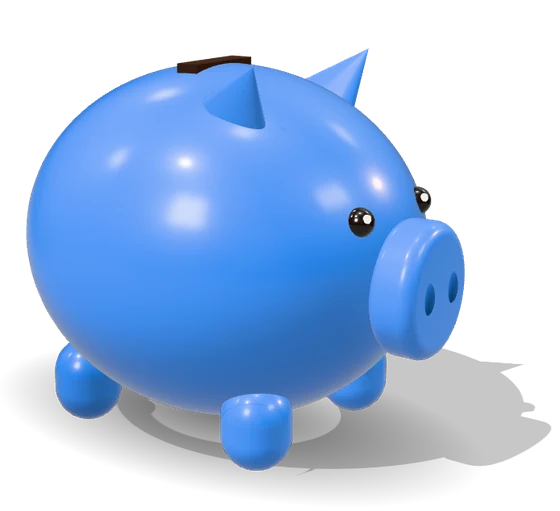
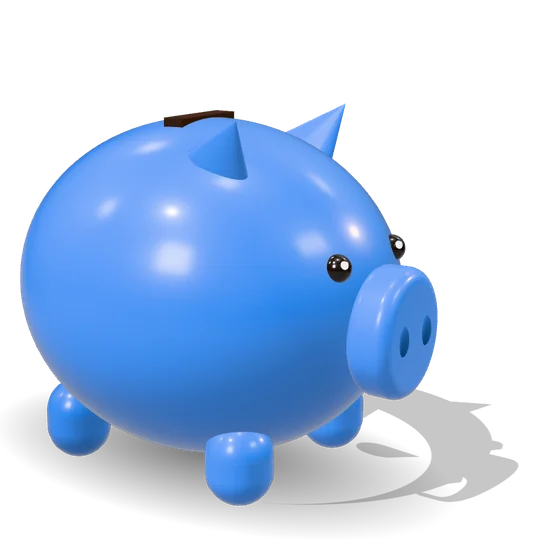
26 skins de porquinho (cores, estampas e acessórios) e troca rápida entre metas
Claude-Session: https://claude.ai/code/session_018k4gdWZnWhzufUH8PF7AZc

Changed region(s): [[0.0304, 0.0881, 1.0, 0.9393]]

diff --git a/js/goals.js b/js/goals.js
@@ -4,11 +4,17 @@
 'use strict';
 /* porquinhos em 3D (renderizados com luz de estúdio; um arquivo por cor em assets/pigs) */
 const PIGS = {
-  laranja: { n: 'Laranja' }, rosa: { n: 'Rosa' }, dourado: { n: 'Dourado' }, prata: { n: 'Prata' }, azul: { n: 'Azul' },
-  menta: { n: 'Menta' }, lilas: { n: 'Lilás' }, vermelho: { n: 'Vermelho' }, grafite: { n: 'Grafite' }, perola: { n: 'Pérola' },
+  laranja: { n: 'Laranja', g: 'c' }, rosa: { n: 'Rosa', g: 'c' }, azul: { n: 'Azul', g: 'c' }, menta: { n: 'Menta', g: 'c' }, lilas: { n: 'Lilás', g: 'c' },
+  vermelho: { n: 'Vermelho', g: 'c' }, grafite: { n: 'Grafite', g: 'c' }, perola: { n: 'Pérola', g: 'c' }, dourado: { n: 'Dourado', g: 'c' }, prata: { n: 'Prata', g: 'c' },
+  bolinhas: { n: 'Bolinhas', g: 'e' }, marinheiro: { n: 'Marinheiro', g: 'e' }, galaxia: { n: 'Galáxia', g: 'e' }, melancia: { n: 'Melancia', g: 'e' },
+  vaca: { n: 'Vaquinha', g: 'e' }, marmore: { n: 'Mármore', g: 'e' }, onca: { n: 'Oncinha', g: 'e' }, arcoiris: { n: 'Arco-íris', g: 'e' },
+  rei: { n: 'Rei', g: 'a' }, laco: { n: 'Lacinho', g: 'a' }, oculos: { n: 'Descolado', g: 'a' }, festa: { n: 'Festa', g: 'a' },
+  natal: { n: 'Natal', g: 'a' }, dj: { n: 'DJ', g: 'a' }, chique: { n: 'Chique', g: 'a' }, vidro: { n: 'Vidro com moedas', g: 'a' },
 };
+const PIG_GROUPS = [['c', 'Cores'], ['e', 'Estampas'], ['a', 'Acessórios e especiais']];
+const GOAL_IDEAS = [['✈', 'Viagem'], ['🛟', 'Reserva de emergência'], ['🚗', 'Carro'], ['🏠', 'Casa própria'], ['🎓', 'Estudos'], ['💻', 'Notebook novo'], ['🎁', 'Presentes de Natal'], ['💍', 'Casamento'], ['📱', 'Celular novo'], ['🏖', 'Férias']];
 const PIG_OLD = { ouro: 'dourado', porcelana: 'perola', noite: 'grafite', melancia: 'vermelho', vaca: 'perola', robo: 'prata', vidro: 'azul', cafe: 'laranja' };
-const PIG_SLOT = [38.4, 12.5], PIG_AR = 511 / 560;
+const PIG_SLOT = [35.7, 21.9], PIG_AR = 539 / 560;
 const pigKey = k => PIGS[k] ? k : PIG_OLD[k] || 'laranja';
 const brl = c => ((c || 0) / 100).toLocaleString('pt-BR', { style: 'currency', currency: 'BRL' });
 const brlS = c => (c < 0 ? '−' : '+') + brl(Math.abs(c));
@@ -51,8 +57,9 @@ VIEWS.goals = main => {
     </div>` : ''}
     <div class="ggrid">${gs.map(goalCard).join('')}${gs.length ? `<button class="gcard gadd" data-act="gnew">${ic('plus', 28)}<span>Nova meta</span></button>` : ''}</div>
     ${!gs.length ? `<div class="empty gempty">${pigSvg('laranja', .35, 190, { cls: 'bob' })}<p><b>Crie seu primeiro porquinho</b></p><p class="mut">Defina uma meta (uma viagem, uma reserva, um presente) e registre cada valor que você guardar de verdade. O app acompanha o total, os meses e quanto falta.</p><button class="btn red" data-act="gnew">${ic('plus', 16)}Nova meta</button></div>` : ''}
+    ${gs.length ? `<p class="hint gtip">Você pode ter quantos porquinhos quiser, um para cada objetivo. Toque em <b>Nova meta</b> para criar outro.</p>` : ''}
     ${arch.length ? `<details class="harch"><summary>Arquivadas e concluídas (${arch.length})</summary><div class="ggrid sm">${arch.map(goalCard).join('')}</div></details>` : ''}
-  </div></div>`;
+  </div></div><button class="fab" data-act="gnew" aria-label="Nova meta">${ic('plus', 26)}</button>`;
 };
 function goalCard(g) {
   const s = gSaved(g), p = gPct(g), last = (g.dep || []).reduce((a, x) => !a || x.d > a.d ? x : a, null);
@@ -83,6 +90,7 @@ function goalDetail(main, g) {
   const byM = []; rows.forEach(x => { const k = ymOf(x.d); let m = byM[byM.length - 1]; if (!m || m.k !== k) byM.push(m = { k, items: [], sum: 0 }); m.items.push(x); m.sum += x.v; });
   const real = g.real && g.real.v != null ? g.real : null, diff = real ? real.v - st.s : 0;
   main.innerHTML = headHtml(g.name, '', `<button class="ib" data-act="gskin" data-id="${g.id}" aria-label="Trocar porquinho" title="Trocar porquinho">${ic('star', 19)}</button><button class="ib" data-act="gedit" data-id="${g.id}" aria-label="Editar meta" title="Editar meta">${ic('edit', 19)}</button>`, { pre: `<nav class="crumbs gcrumb"><a href="#/goals">Metas</a><span>/</span></nav>` }) + `<div class="scroll"><div class="goals gdet">
+    <nav class="gtabs">${goalsAll().filter(x => !x.arch).sort((a, b) => (a.o || a.c || 0) - (b.o || b.c || 0)).map(x => `<a class="gtab${x.id === g.id ? ' on' : ''}" href="#/goals/${x.id}"><img src="assets/pigs/${pigKey(x.skin)}.webp" alt="" width="34" height="${Math.round(34 * PIG_AR)}"><span>${esc(x.name)}</span></a>`).join('')}<button class="gtab add" data-act="gnew">${ic('plus', 16)}<span>Nova meta</span></button></nav>
     <section class="ghero">
       <button class="gbig" data-act="gtap" aria-label="Porquinho">${pigSvg(g.skin, p, 230, { cls: 'bob' })}</button>
       <div class="ghinfo">
@@ -165,12 +173,13 @@ function goalConfetti(box) {
 
 /* ---------- formulários ---------- */
 function skinGrid(cur, pct = .45) {
-  return `<div class="gskins">${Object.entries(PIGS).map(([k, P]) => `<label class="gskin"><input type="radio" name="skin" value="${k}" ${k === pigKey(cur) ? 'checked' : ''}><span>${pigSvg(k, pct, 92)}<i>${esc(P.n)}</i></span></label>`).join('')}</div>`;
+  return PIG_GROUPS.map(([gk, gn]) => `<span class="gskh">${gn}</span><div class="gskins">${Object.entries(PIGS).filter(([, P]) => P.g === gk).map(([k, P]) => `<label class="gskin"><input type="radio" name="skin" value="${k}" ${k === pigKey(cur) ? 'checked' : ''}><span>${pigSvg(k, pct >= 1 ? .9 : pct, 92)}<i>${esc(P.n)}</i></span></label>`).join('')}</div>`).join('');
 }
 function editGoal(g) {
   const isNew = !g;
   g = g || { id: uid(), name: '', target: 0, due: '', skin: Object.keys(PIGS)[goalsAll().length % 10], dep: [], c: Date.now() };
   const el = modal(`<h2>${isNew ? 'Nova meta' : 'Editar meta'}</h2><form class="gform">
+    ${isNew ? `<div class="gideas">${GOAL_IDEAS.map(([e, n]) => `<button type="button" class="fchip" data-idea="${esc(n)}">${e} ${esc(n)}</button>`).join('')}</div>` : ''}
     <label class="lab">Nome da meta<input class="in" name="n" value="${esc(g.name)}" placeholder="Ex.: Viagem de férias, Reserva de emergência" maxlength="60" required autofocus></label>
     <div class="row"><label class="lab f1">Valor da meta (R$)<input class="in" name="t" inputmode="decimal" data-nocalc value="${g.target ? (g.target / 100).toLocaleString('pt-BR', { minimumFractionDigits: 2 }) : ''}" placeholder="Ex.: 5.000,00"></label>
     <label class="lab f1">Prazo (opcional)<input class="in" type="date" name="d" value="${esc(g.due || '')}"></label></div>
@@ -180,6 +189,7 @@ function editGoal(g) {
   </form>`, { cls: 'wide' });
   const f = el.querySelector('form');
   el.querySelector('[data-x]').onclick = () => closeModal();
+  el.querySelectorAll('[data-idea]').forEach(b => b.onclick = () => { f.n.value = b.dataset.idea; el.querySelectorAll('[data-idea]').forEach(x => x.classList.toggle('on', x === b)); f.t.focus(); });
   f.onsubmit = e => {
     e.preventDefault();
     const t = parseBRL(f.t.value);

diff --git a/sw.js b/sw.js
@@ -1,7 +1,7 @@
 /* Service worker: abre sem internet, busca sempre a versão mais nova e mostra as notificações push. */
-const VERSAO = '2026.10.30-106';
+const VERSAO = '2026.10.30-107';
 const CACHE = 'tarefas-' + VERSAO;
-const ARQUIVOS = ['./', 'index.html', 'config.js', 'css/app.css', 'assets/fonts/inter-latin-wght-normal.woff2', 'assets/fonts/inter-latin-ext-wght-normal.woff2', 'js/core.js', 'js/emoji.js', 'js/ui.js', 'js/files.js', 'js/fileprev.js', 'js/links.js', 'js/tasks.js', 'js/home.js', 'js/detail.js', 'js/cal.js', 'js/ics.js', 'js/docs.js', 'js/focus.js', 'js/sounds.js', 'js/export.js', 'js/docshot.js', 'js/log.js', 'js/ach.js', 'js/pets.js', 'js/focusfx.js', 'js/room.js', 'js/radio.js', 'js/goals.js', 'assets/pigs/laranja.webp', 'assets/pigs/rosa.webp', 'assets/pigs/dourado.webp', 'assets/pigs/prata.webp', 'assets/pigs/azul.webp', 'assets/pigs/menta.webp', 'assets/pigs/lilas.webp', 'assets/pigs/vermelho.webp', 'assets/pigs/grafite.webp', 'assets/pigs/perola.webp', 'js/calc.js', 'js/notes.js', 'js/draw.js', 'js/ai.js', 'js/dstyles.js', 'js/meet.js', 'js/users.js', 'js/push.js', 'js/sync.js', 'js/app.js',
+const ARQUIVOS = ['./', 'index.html', 'config.js', 'css/app.css', 'assets/fonts/inter-latin-wght-normal.woff2', 'assets/fonts/inter-latin-ext-wght-normal.woff2', 'js/core.js', 'js/emoji.js', 'js/ui.js', 'js/files.js', 'js/fileprev.js', 'js/links.js', 'js/tasks.js', 'js/home.js', 'js/detail.js', 'js/cal.js', 'js/ics.js', 'js/docs.js', 'js/focus.js', 'js/sounds.js', 'js/export.js', 'js/docshot.js', 'js/log.js', 'js/ach.js', 'js/pets.js', 'js/focusfx.js', 'js/room.js', 'js/radio.js', 'js/goals.js', 'assets/pigs/laranja.webp', 'assets/pigs/rosa.webp', 'assets/pigs/dourado.webp', 'assets/pigs/prata.webp', 'assets/pigs/azul.webp', 'assets/pigs/menta.webp', 'assets/pigs/lilas.webp', 'assets/pigs/vermelho.webp', 'assets/pigs/grafite.webp', 'assets/pigs/perola.webp', 'assets/pigs/bolinhas.webp', 'assets/pigs/marinheiro.webp', 'assets/pigs/galaxia.webp', 'assets/pigs/melancia.webp', 'assets/pigs/vaca.webp', 'assets/pigs/marmore.webp', 'assets/pigs/onca.webp', 'assets/pigs/arcoiris.webp', 'assets/pigs/rei.webp', 'assets/pigs/laco.webp', 'assets/pigs/oculos.webp', 'assets/pigs/festa.webp', 'assets/pigs/natal.webp', 'assets/pigs/dj.webp', 'assets/pigs/chique.webp', 'assets/pigs/vidro.webp', 'js/calc.js', 'js/notes.js', 'js/draw.js', 'js/ai.js', 'js/dstyles.js', 'js/meet.js', 'js/users.js', 'js/push.js', 'js/sync.js', 'js/app.js',
   'vendor/supabase.js', 'manifest.webmanifest', 'assets/icon-v4-192.png', 'assets/apple-touch-icon-v4.png', 'assets/icon-v4-512.png', 'assets/badge-96.png'];
 self.addEventListener('install', e => { e.waitUntil(caches.open(CACHE).then(c => c.addAll(ARQUIVOS))); });
 self.addEventListener('message', e => { if (e.data === 'skip') self.skipWaiting(); });

diff --git a/css/app.css b/css/app.css
@@ -2441,3 +2441,20 @@ img,svg,canvas{-webkit-user-drag:none;-webkit-touch-callout:none}
 .pigw .pgs{position:absolute;font-style:normal;color:#F7C948;line-height:1;text-shadow:0 0 8px rgba(247,201,72,.8);animation:pigspark 1.6s ease-in-out infinite}
 .pigw .s1{left:6%;top:18%;font-size:18px}.pigw .s2{right:8%;top:4%;font-size:13px;animation-delay:.5s}.pigw .s3{right:2%;top:46%;font-size:11px;animation-delay:1s}
 .gskin .pigw{margin:2px 0}
+/* metas: troca rápida entre porquinhos, ideias e grupos de skins */
+.gtabs{display:flex;gap:8px;overflow-x:auto;padding:2px 2px 10px;margin:0 -2px 4px;scrollbar-width:none}
+.gtabs::-webkit-scrollbar{display:none}
+.gtab{flex:none;display:flex;align-items:center;gap:7px;height:44px;padding:0 14px 0 6px;border:1px solid var(--line);border-radius:22px;background:var(--card);color:inherit;text-decoration:none;font-size:calc(13.5px * var(--fs,1));font-weight:500;white-space:nowrap;cursor:pointer;transition:.15s}
+.gtab img{width:34px;height:auto}
+.gtab:hover{background:var(--hover)}
+.gtab.on{border-color:var(--red);background:var(--redsoft);font-weight:700}
+.gtab.add{padding:0 14px;color:var(--red);border-style:dashed;font:inherit;font-size:calc(13.5px * var(--fs,1));font-weight:600}
+.gideas{display:flex;flex-wrap:wrap;gap:6px;margin:-2px 0 12px}
+.gideas .fchip.on{border-color:var(--red);color:var(--red);background:var(--redsoft)}
+.gskh{display:block;font-size:calc(12px * var(--fs,1));font-weight:700;color:var(--mut);text-transform:uppercase;letter-spacing:.05em;margin:10px 0 4px}
+.gskins{margin:4px 0 6px}
+.gtip{text-align:center;margin-top:16px}
+@media (max-width:759px){.gsum{grid-template-columns:repeat(3,minmax(0,1fr));gap:6px}.gsum .gkpi{padding:9px 10px}.gsum .gkpi b{font-size:calc(15px * var(--fs,1))}.gsum .gkpi .sm{font-size:calc(11px * var(--fs,1))}}
+.gskin .pigw{border:0!important;padding:0!important;background:none!important;border-radius:0!important;display:inline-block}
+.pigw .gcoin{top:calc(var(--sy) - 64px);animation-name:gcoin2}
+@keyframes gcoin2{0%{transform:translateY(-12px) rotateY(0);opacity:0}20%{opacity:1}70%{transform:translateY(46px) rotateY(540deg);opacity:1}100%{transform:translateY(58px) rotateY(720deg) scale(.4);opacity:0}}

diff --git a/js/sync.js b/js/sync.js
@@ -3,7 +3,7 @@
 'use strict';
 const CFG = window.TT_CFG || {};
 const CLOUD = !!(CFG.url && CFG.key && window.supabase);
-const APPV = '2026.10.30-106';
+const APPV = '2026.10.30-107';
 const TABLE = 'tarefas_registros';
 let SB = null, SES = null, WHO = '', synced = {}, pushing = false, again = false, ptmr = null, chan = null;
 const SYNC = { cls: 'local', txt: 'Modo local: dados só neste aparelho', icon: 'wifi' };
